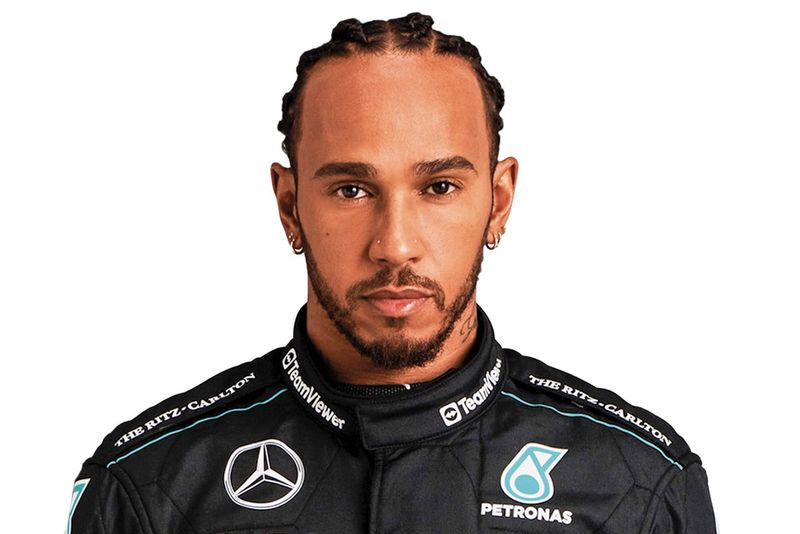
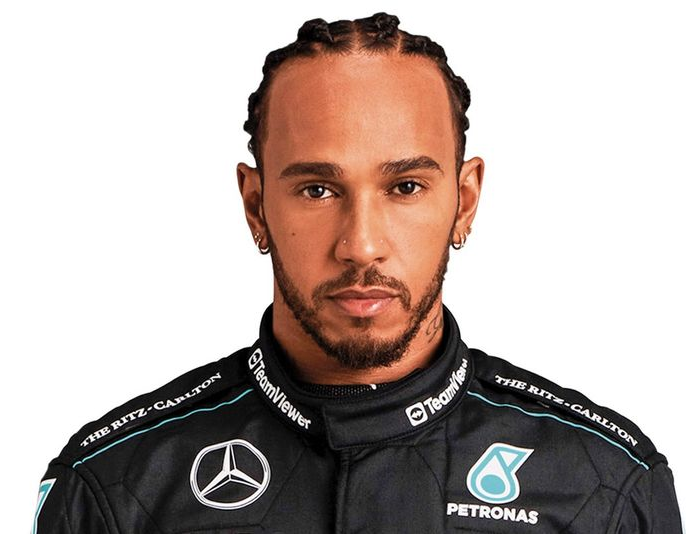
Arreglado un problema con las imágenes y añadidos comentarios al css

Changed region(s): [[0.03, 0.0, 0.99, 1.0]]

diff --git a/F1Desktop/piloto.html b/F1Desktop/piloto.html
@@ -183,18 +183,18 @@
 
         <section>
             <h3>Multimedia</h3>
-            <video controls preload="auto">
+            <video width="80" height="80" controls preload="auto">
                 <source src="multimedia/videos/video1.mp4" type="video/mp4" />
                 <source src="multimedia/videos/video1.webm" type="video/webm" />
             </video>
-            <audio controls>
+            <audio controls >
                 <source src="multimedia/audios/audio1.mp3" type="audio/mp3" />
                 <source src="multimedia/audios/audio1.wav" type="audio/wav" />
             </audio>
             <img alt="Foto de Lewis Hamilton"
-                src="multimedia/imagenes/Lewis_Hamilton_2022_São_Paulo_Grand_Prix_(52498120773)_(cropped).jpg" />
+                src="multimedia/imagenes/Lewis_Hamilton_2022_São_Paulo_Grand_Prix_(52498120773)_(cropped).jpg" width="80" height="80"/>
             <img alt="Fotografía de Lewis Hamilton"
-                src="multimedia/imagenes/TELEMMGLPICT000306816438_trans_NvBQzQNjv4BqBUf8B7jwJjc2Cnz3CBTXYZgojZYlP8f0i9h2tPqCNsM.jpeg" />
+                src="multimedia/imagenes/TELEMMGLPICT000306816438_trans_NvBQzQNjv4BqBUf8B7jwJjc2Cnz3CBTXYZgojZYlP8f0i9h2tPqCNsM.jpeg" width="80" height="80"/>
         </section>
 
     </main>

diff --git a/F1Desktop/estilo/estilo.css b/F1Desktop/estilo/estilo.css
@@ -26,3 +26,31 @@ body header nav{
     background-color: #b4f5f0;
 }
 
+/* 0 0 2*/
+/*Hereda el color de body*/
+body main {
+    background-color: #041f60;
+}
+
+/* 0 0 3*/
+/*Hereda el color de body*/
+body main h2{
+    background-color: #b4f5f0;
+}
+
+/* 0 0 3*/
+/*Hereda el color de body*/
+body main section{
+    background-color: #b4f5f0;
+}
+/* 0 0 2*/
+/*Hereda el color de body*/
+body aside{
+    background-color: #b4f5f0;
+}
+/* 0 0 2*/
+/*Hereda el color de body*/
+body footer{
+    background-color: #b4f5f0;
+}
+
